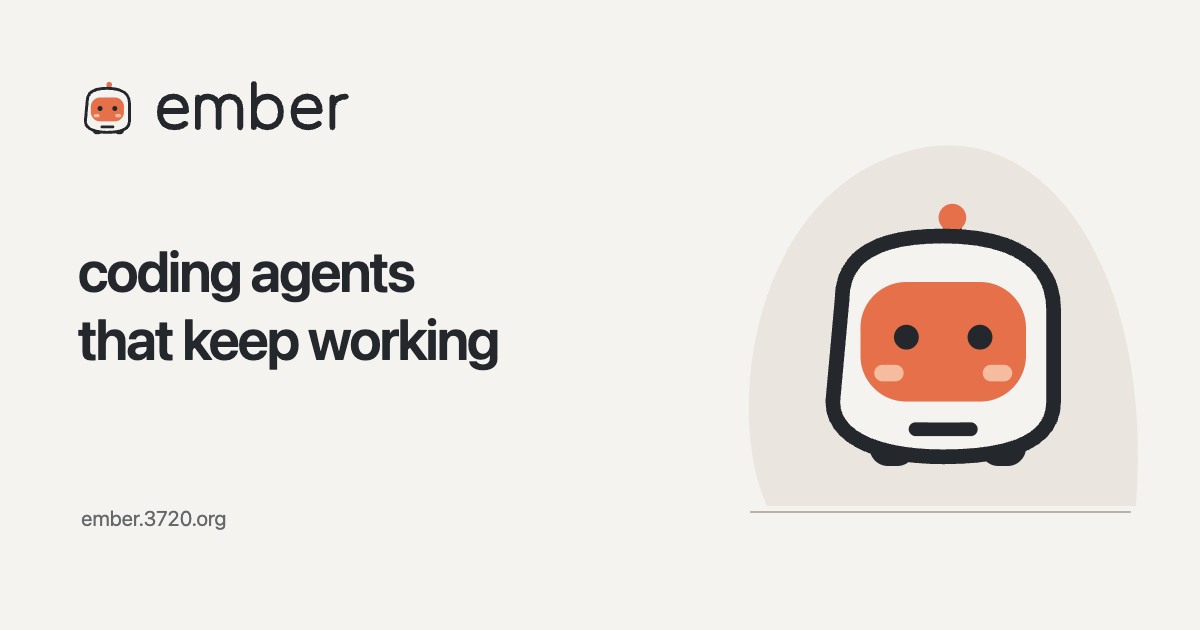
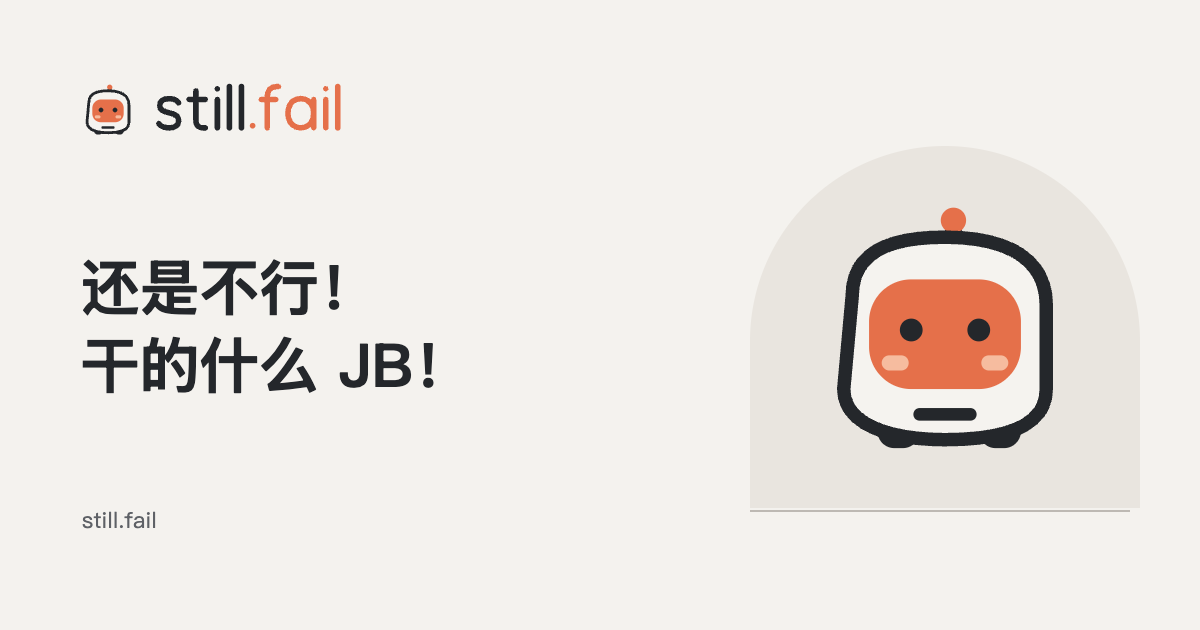
Web: still.fail social card
The og image still showed the ember lockup and ember.3720.org. The site's
title and og:title are 还是不行！干的什么 JB！ now, its og:image is absolute
(crawlers skip relative ones) and it asks for the large card.

Session: ember:c-89b6b54a0e

diff --git a/site/index.html b/site/index.html
@@ -3,11 +3,14 @@
 <head>
 <meta charset="utf-8">
 <meta name="viewport" content="width=device-width,initial-scale=1">
-<title>still.fail · 还是不行？让它接着干</title>
+<title>still.fail · 还是不行！干的什么 JB！</title>
 <meta name="description" content="还是不行？你干的什么 JB？still.fail 让 Claude Code 和 Codex 跑在你自己的机器上，你在聊天里指挥，它们一直干活。">
-<meta property="og:title" content="still.fail · 还是不行？让它接着干">
+<meta property="og:title" content="still.fail · 还是不行！干的什么 JB！">
 <meta property="og:description" content="Claude Code 和 Codex 跑在你自己的机器上，你在聊天里指挥，它们一直干活。">
-<meta property="og:image" content="/og-image.png">
+<meta property="og:image" content="https://still.fail/og-image.png">
+<meta property="og:image:width" content="1200">
+<meta property="og:image:height" content="630">
+<meta name="twitter:card" content="summary_large_image">
 <link rel="icon" href="/favicon.svg" type="image/svg+xml">
 <link rel="icon" href="/favicon-32.png" sizes="32x32">
 <link rel="apple-touch-icon" href="/apple-touch-icon.png">

diff --git a/docs/ops-log.md b/docs/ops-log.md
@@ -19,6 +19,7 @@
 
 - 补历史不播动画（history-no-arrive-anim）：只改客户端（core 的 wasm、web、安卓），station 和 cloud 不用动。web 跟着 cloud / station 的页面上线；安卓要发新版才有。`caught` 是可选字段，新旧页面和 core 混用都不坏（没有 caught 时和以前一样）。上线后验：设备上已经存了某个 chat，关掉页面，等 chat 里来几条新消息后再打开，补回来的消息直接显示，不上浮、不平滑滚动；页面开着时新来的消息照常有进场动画。
 - agent 自动起标题（auto-chat-title）：改的是 station（mesh），要重新发 station 包，各台 station 更新后才生效；web 和安卓只改了重命名框的提示文字。db 在打开时原地给 `threads` 补三列（`auto_title`、`auto_title_n`、`auto_title_changes`），旧 station 照样能读这份 db。标题是 station 算好下发的，客户端没有改字段，新旧页面怎么混用都不坏。上线后验：新开一个 chat 说句话，agent 发完带 `title` 的 final 后，侧栏标题从第一句话换成它起的名字；手动改过名的 chat 不会被改。
+- 分享卡片改名（og-image-still-fail）：`web/public/og-image.png` 换成 still.fail 的图，官网 `site/index.html` 的标题和 og:title 换成「还是不行！干的什么 JB！」，og:image 改成绝对地址。app 那边跟着 web 上线；官网不在默认部署里，要单独 `python3 cloud/deploy.py site`。上线后验：`curl https://still.fail/` 看 og:title，打开 https://still.fail/og-image.png 和 https://app.still.fail/og-image.png 是新图；Slack 等会缓存旧卡片，要过一阵才换。
 
 ## 2026-09-30
 
